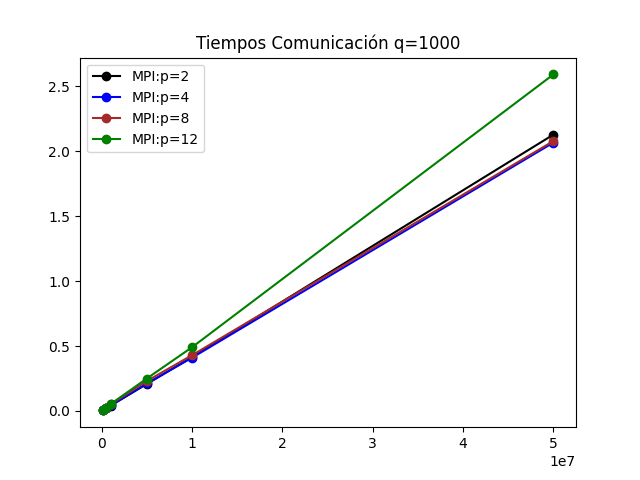
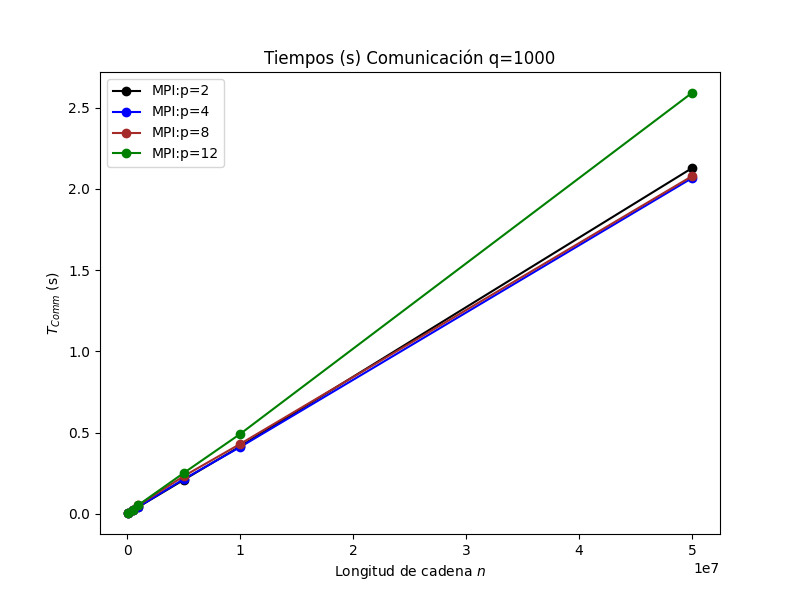
nuevas imágenes

diff --git a/latex.tex b/latex.tex
@@ -1,0 +1,126 @@
+\begin{figure}[H]
+    \centerline{
+        \includegraphics[width=0.4\textwidth]{graficos/efficency_q10.png}
+    }
+    \caption{Ingresar Capción}
+    \label{grafico:efficency_q10}
+\end{figure}
+\begin{figure}[H]
+    \centerline{
+        \includegraphics[width=0.4\textwidth]{graficos/efficency_q100.png}
+    }
+    \caption{Ingresar Capción}
+    \label{grafico:efficency_q100}
+\end{figure}
+\begin{figure}[H]
+    \centerline{
+        \includegraphics[width=0.4\textwidth]{graficos/efficency_q1000.png}
+    }
+    \caption{Ingresar Capción}
+    \label{grafico:efficency_q1000}
+\end{figure}
+\begin{figure}[H]
+    \centerline{
+        \includegraphics[width=0.4\textwidth]{graficos/speedup_q10.png}
+    }
+    \caption{Ingresar Capción}
+    \label{grafico:speedup_q10}
+\end{figure}
+\begin{figure}[H]
+    \centerline{
+        \includegraphics[width=0.4\textwidth]{graficos/speedup_q100.png}
+    }
+    \caption{Ingresar Capción}
+    \label{grafico:speedup_q100}
+\end{figure}
+\begin{figure}[H]
+    \centerline{
+        \includegraphics[width=0.4\textwidth]{graficos/speedup_q1000.png}
+    }
+    \caption{Ingresar Capción}
+    \label{grafico:speedup_q1000}
+\end{figure}
+\begin{figure}[H]
+    \centerline{
+        \includegraphics[width=0.4\textwidth]{graficos/tiempos_comunicacion_q10.png}
+    }
+    \caption{Ingresar Capción}
+    \label{grafico:tiempos_comunicacion_q10}
+\end{figure}
+\begin{figure}[H]
+    \centerline{
+        \includegraphics[width=0.4\textwidth]{graficos/tiempos_comunicacion_q100.png}
+    }
+    \caption{Ingresar Capción}
+    \label{grafico:tiempos_comunicacion_q100}
+\end{figure}
+\begin{figure}[H]
+    \centerline{
+        \includegraphics[width=0.4\textwidth]{graficos/tiempos_comunicacion_q1000.png}
+    }
+    \caption{Ingresar Capción}
+    \label{grafico:tiempos_comunicacion_q1000}
+\end{figure}
+\begin{figure}[H]
+    \centerline{
+        \includegraphics[width=0.4\textwidth]{graficos/tiempos_ejecucion_q10.png}
+    }
+    \caption{Ingresar Capción}
+    \label{grafico:tiempos_ejecucion_q10}
+\end{figure}
+\begin{figure}[H]
+    \centerline{
+        \includegraphics[width=0.4\textwidth]{graficos/tiempos_ejecucion_q100.png}
+    }
+    \caption{Ingresar Capción}
+    \label{grafico:tiempos_ejecucion_q100}
+\end{figure}
+\begin{figure}[H]
+    \centerline{
+        \includegraphics[width=0.4\textwidth]{graficos/tiempos_ejecucion_q1000.png}
+    }
+    \caption{Ingresar Capción}
+    \label{grafico:tiempos_ejecucion_q1000}
+\end{figure}
+\begin{figure}[H]
+    \centerline{
+        \includegraphics[width=0.4\textwidth]{graficos/tiempos_paralelo_q10.png}
+    }
+    \caption{Ingresar Capción}
+    \label{grafico:tiempos_paralelo_q10}
+\end{figure}
+\begin{figure}[H]
+    \centerline{
+        \includegraphics[width=0.4\textwidth]{graficos/tiempos_paralelo_q100.png}
+    }
+    \caption{Ingresar Capción}
+    \label{grafico:tiempos_paralelo_q100}
+\end{figure}
+\begin{figure}[H]
+    \centerline{
+        \includegraphics[width=0.4\textwidth]{graficos/tiempos_paralelo_q1000.png}
+    }
+    \caption{Ingresar Capción}
+    \label{grafico:tiempos_paralelo_q1000}
+\end{figure}
+\begin{figure}[H]
+    \centerline{
+        \includegraphics[width=0.4\textwidth]{graficos/tiempos_totales_q10.png}
+    }
+    \caption{Ingresar Capción}
+    \label{grafico:tiempos_totales_q10}
+\end{figure}
+\begin{figure}[H]
+    \centerline{
+        \includegraphics[width=0.4\textwidth]{graficos/tiempos_totales_q100.png}
+    }
+    \caption{Ingresar Capción}
+    \label{grafico:tiempos_totales_q100}
+\end{figure}
+\begin{figure}[H]
+    \centerline{
+        \includegraphics[width=0.4\textwidth]{graficos/tiempos_totales_q1000.png}
+    }
+    \caption{Ingresar Capción}
+    \label{grafico:tiempos_totales_q1000}
+\end{figure}

diff --git a/graficos/graph.py b/graficos/graph.py
@@ -42,38 +42,47 @@ for q in qs:
         #Append
         parallels.append( (p, parallel_p) )
     #Plot
-    plt.title(f"Tiempos Totales q={q}")
+    plt.title(f"Tiempos (s) Totales q={q}")
     plt.plot(sequential.longitud, sequential.tiempo_ejec, marker="o", color=seq_color, label="Sequential")
     for i, (p, parallel_p) in enumerate( parallels ):
         plt.plot(parallel_p.longitud, parallel_p.tiempo_tot,marker="o", color=par_colors[i],label=f"MPI:p={p}")
     plt.legend()
+    plt.xlabel("Longitud de cadena $n$")
+    plt.ylabel(f"$T_{{Total}}$ (s)")
     show_plt()
     plt.savefig(f'tiempos_totales_q{q}.png')
     plt.clf()
 
-    plt.title(f"Tiempos Ejecución q={q}")
+    plt.title(f"Tiempos (s) Ejecución q={q}")
     plt.plot(sequential.longitud, sequential.tiempo_ejec, marker="o", color=seq_color, label="Sequential")
     for i, (p, parallel_p) in enumerate(parallels):
         plt.plot(parallel_p.longitud, parallel_p.tiempo_ejec, marker="o", color=par_colors[i],label=f"MPI:p={p}")
     plt.legend()
+    plt.xlabel("Longitud de cadena $n$")
+    plt.ylabel(f"$T_{{Comp}}$ (s)")
     show_plt()
     plt.savefig(f'tiempos_ejecucion_q{q}.png')
     plt.clf()
     
-    plt.title(f"Tiempos Comunicación q={q}")
+    plt.title(f"Tiempos (s) Comunicación q={q}")
     for i, (p, parallel_p) in enumerate(parallels):
         plt.plot(parallel_p.longitud, parallel_p.tiempo_comm, marker="o", color=par_colors[i],label=f"MPI:p={p}")
     plt.legend()
+    plt.xlabel("Longitud de cadena $n$")
+    plt.ylabel(f"$T_{{Comm}}$ (s)")
     show_plt()
     plt.savefig(f'tiempos_comunicacion_q{q}.png')
     plt.clf()
 
-    plt.title(f"Tiempos en Paralelo q={q}")
+    plt.figure(figsize=(8, 6))
+    plt.title(f"Tiempos (s) en Paralelo q={q}")
     for i,(p, parallel_p) in enumerate(parallels):
         plt.plot(parallel_p.longitud, parallel_p.tiempo_tot, marker="o", color=par_colors[i],label=f"MPI:p={p}")
-        plt.plot(parallel_p.longitud, parallel_p.tiempo_ejec,"--", marker="o", color=par_colors[i]) # Dashed para tiempo de ejecucion
-        plt.plot(parallel_p.longitud, parallel_p.tiempo_comm,":", marker="o", color=par_colors[i]) # Dotted para tiempo de comm
+        plt.plot(parallel_p.longitud, parallel_p.tiempo_ejec,"--", marker="o", color=par_colors[i],label=f"MPI:p={p} $T_{{Comp}}$") # Dashed para tiempo de ejecucion
+        plt.plot(parallel_p.longitud, parallel_p.tiempo_comm,":", marker="o", color=par_colors[i],label=f"MPI:p={p} $T_{{Comm}}$") # Dotted para tiempo de comm
     plt.legend()
+    plt.xlabel("Longitud de cadena $n$")
+    plt.ylabel("Tiempo (s)")
     show_plt()
     plt.savefig(f'tiempos_paralelo_q{q}.png')
     plt.clf()
@@ -83,6 +92,8 @@ for q in qs:
     for i, (p, parallel_p) in enumerate( parallels ):
         plt.plot(parallel_p.longitud, parallel_p.speedup,marker="o", color=par_colors[i],label=f"MPI:p={p}")
     plt.legend()
+    plt.xlabel("Longitud de cadena $n$")
+    plt.ylabel("Speedup")
     show_plt()
     plt.savefig(f'speedup_q{q}.png')
     plt.clf()
@@ -92,6 +103,8 @@ for q in qs:
     for i, (p, parallel_p) in enumerate( parallels ):
         plt.plot(parallel_p.longitud, parallel_p.speedup,marker="o", color=par_colors[i],label=f"MPI:p={p}")
     plt.legend()
+    plt.xlabel("Longitud de cadena $n$")
+    plt.ylabel("Eficiencia")
     show_plt()
     plt.savefig(f'efficency_q{q}.png')
     plt.clf()

diff --git a/latex.py b/latex.py
@@ -1,0 +1,21 @@
+from glob import glob
+from os.path import split
+
+# print(glob("graficos/*.png"))
+
+rutas = glob("graficos/*.png")
+
+cad = '''\\begin{{figure}}[H]
+    \centerline{{
+        \includegraphics[width=0.4\\textwidth]{{{ruta}}}
+    }}
+    \caption{{{capcion}}}
+    \label{{grafico:{etiqueta}}}
+\end{{figure}}\n'''
+
+with open("latex.tex", 'w') as f:
+    for ruta in rutas:
+        _, tail = split(ruta)
+        tail = tail.split('.')[0]
+        f.write(cad.format(ruta = ruta, capcion="Ingresar Capción", etiqueta=tail))
+    pass
